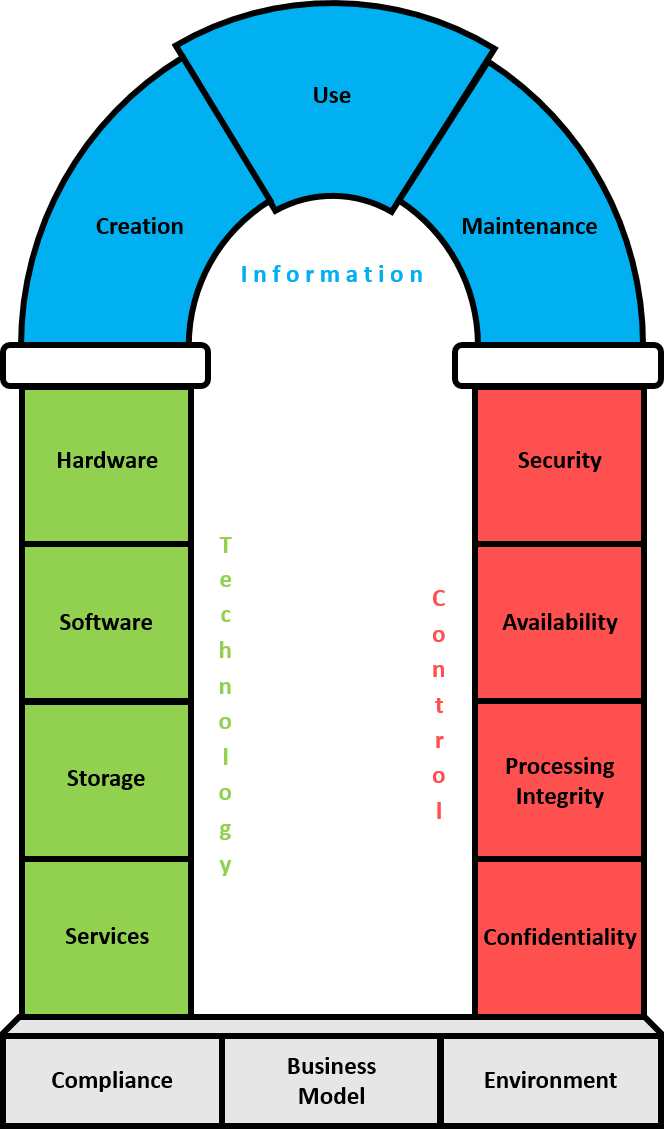
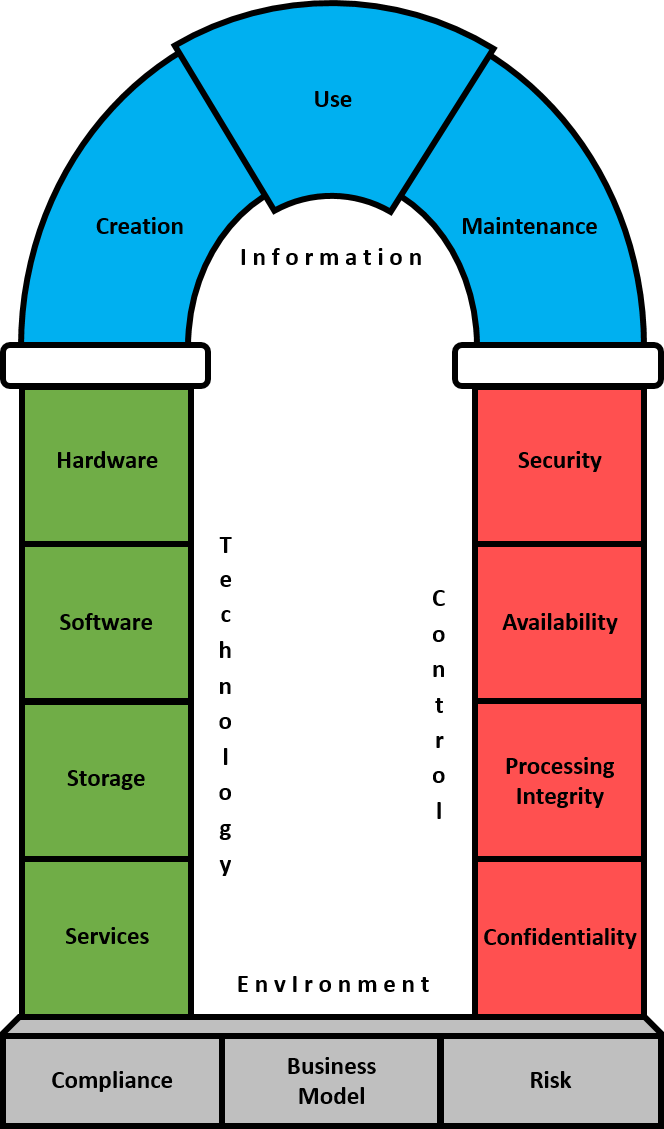
Revised the foundation of the arch.
Changed the arch image to reflect new version. Also made changes
to the Accounting Architecture lecture, in part, to match the new
version of the arch.

diff --git a/lectures/accounting-architecture.html b/lectures/accounting-architecture.html
@@ -49,27 +49,27 @@
 		</section>
 
 		<section>
-			<h3>The Information Era</h3>
-			<p>The surge in technological innovation may lead some to believe erroneously that we live in the Technology Era, but the goal of technological innovation is not to serve technology. In other words, technology is not an end to itself. It is a means to an end, specifically a means to the generation of more information. Technology is a mere, albeit important, vessel for the generation of additional information. Make no mistake, we live in the Information Era.</p>
-		</section>
-
-		<section>
 			<h3>Beyond Data Analytics</h3>
 			<p>Data collection and analytics may be highly demanded skills, but information custodianship involves more than these. Custodianship begins with <u><em>systems design</em></u>, which involves the identification of the roles the information system should play, the data the system should collect, and the information or reports the system should generate, as well as the selection of technologies that build an information system to meet specifications.</p>
 		</section>
 
 		<section>
+			<h3>The Information Era</h3>
+			<p>The surge in technological innovation may lead some to believe erroneously that we live in the Technology Era, but the goal of technological innovation is not to serve technology. In other words, technology is not an end to itself. It is a means to an end, specifically a means to the generation of more information. Technology is a mere, albeit important, vessel for the generation of additional information. Make no mistake, we live in the Information Era.</p>
+		</section>
+
+		<section>
 			<h3>All Types of Information?</h3>
-			<p>Business information in an information system extends beyond traditional accounting content. Although the historical belief may have been that accountants should only care about accounting&mdash;to quote The Simpsons: &ldquo;Hey, Surly only looks out for one guy... Surly!&rdquo;&mdash;with the extensive business knowledge accountants have by virtue of their understanding of how to measure economic activities, they should expand their role to act as a custodian of all business information.</p>
+			<p>Business information in an information system extends beyond traditional accounting content. Although the historical belief may have been that accountants should only care about accounting&mdash;to quote The Simpsons: &ldquo;Hey, Surly only looks out for one guy: Surly!&rdquo;&mdash;with the extensive business knowledge accountants have by virtue of their understanding of how to measure economic activities, they should expand their role to act as a custodian of all business information.</p>
 		</section>
 
 		<section>
 			<h3>Old Meets New</h3>
-			<p>Although the idea of systems design and general custodianship of business information is new to the accounting profession, the concept of supporting the information system is not. For years, one of the primary roles of accountants has been to audit IT systems to verify that existing systems meet control objectives to maintain data integrity and prevent unauthorized access. This has both positive and negative consequences. Because accountants have had a limited view of their role in the information system, they have been poorly equipped to serve as IT auditors. As accountants broaden their skills, not only will they be able to fill new and popular data analytics roles, rather they will also increase in their ability to perform the more traditional IT audit, and even financial audit, roles.</p>
+			<p>Although the idea of systems design and general custodianship of business information is new to the accounting profession, the concept of supporting the information system is not. For years, one of the primary roles of accountants has been to audit IT systems to verify that existing systems meet control objectives to maintain data integrity and prevent unauthorized access. This has both positive and negative consequences. Because accountants have had a limited view of their role in the information system, they have been poorly equipped to serve as IT auditors. As accountants broaden their skills, not only will they be able to fill new and popular data analytics roles, but they will also increase in their ability to perform the more traditional IT audit, and even financial audit, roles.</p>
 		</section>
 
 		<section>
-			<h3>Accounting Architecture - Teaching the Skills</h3>
+			<h3>Accounting Architecture</h3>
 			<div class="flex-row">
 				<div class="flex-item override"><img src="../images/Arch5Color.png" alt="AA Arch" style="max-width: 300px"/></div>
 				<div class="flex-item" style="max-width: 65%">
@@ -79,13 +79,13 @@
 		</section>
 
 		<section>
-			<h3>The Elephant in the Room</h3>
-			<p>The title of this course in the catalog is &ldquo;Accounting Systems&rdquo;. In prior semesters this has caused confusion regarding the nature of this course. This course is more appropriately, and more traditionally, called &ldquo;Accounting Information Systems&rdquo; because the purpose is to explain the creation of accounting information. Perhaps, a better title would be &ldquo;Accounting <em>and</em> Information Systems&rdquo; to highlight that the course teaches the principles of an information system as they apply to accounting.</p>
+			<h3>Why Architecture?</h3>
+			<p>Many disciplines have concepts of the structure, building blocks, and form of a system, and they call these &ldquo;architecture&rdquo; in the same sense that a physical structure has an architecture. Business architecture is the design of business models and activities to fulfill business strategies. Software architecture is the structure and design of computer software. IT/systems architecture is the design of computer systems. Accounting architecture relies heavily on systems architecture, and as such, could be called accounting systems architecture. However, this is too limiting a label. Accounting architecture is the structure of accounting information, as well as the structure of the information system necessary to capture, record, and communicate that information.</p>
 		</section>
 
 		<section>
 			<h3>Not IT Specialists</h3>
-			<p>The purpose of this course is not to encourage students to change their profession or to create accountants who can replace IT staff. Knowledge of accounting architecture creates accounting architects who can collaborate with IT staff to create and maintain information systems that will provide the best possible information for decision makers. The goal is to &ldquo;bridge the gap&rdquo; between business specialists and IT specialists. Some have called this practice &ldquo;business-led IT&rdquo; because business specialists lead systems design. I have coined the term &ldquo;accounting-led IT&rdquo; to emphasize the importance of accountants with their unique business knowledge collaborating with IT staff.</p>
+			<p>The purpose of this course is not to encourage students to change their profession or to create accountants who can replace IT staff. Knowledge of accounting architecture creates accountants, or rather accounting architects, who can collaborate with IT staff to create and maintain information systems that will provide the best possible information for decision makers. The goal is to &ldquo;bridge the gap&rdquo; between business specialists and IT specialists. Some have called this practice &ldquo;business-led IT&rdquo; because business specialists lead systems design. I prefer  &ldquo;accounting-led IT&rdquo; to emphasize the importance of accountants with their unique business knowledge collaborating with IT staff.</p>
 		</section>
 
 		<section>
@@ -100,36 +100,36 @@
 			<div class="flex-row">
 				<div class="flex-item override"><img src="../images/Arch5Color.png" alt="AA Arch" style="max-width: 300px"/></div>
 				<div class="flex-item" style="max-width: 65%">
-					<p>The arch of the accounting architecture has four sections: Foundation or Constraints, Information, Technology, and Control. The following slides introduce each of these sections, as well as the blocks that these sections comprise.</p>
+					<p>The arch of the accounting architecture has four sections: Environment, Information, Technology, and Control. The following slides introduce each of these sections, as well as the blocks that these sections comprise.</p>
 				</div>
 			</div>
 		</section>
 
 		<section>
-			<h3>Constraints</h3>
-			<p>Three forces determine the boundaries of a useful information system:
-			<ul>
+			<h3>Environment</h3>
+			<p>The environment is the collection of external and internal forces that affect the business entity and its accounting information. These environmental constructs determine the boundaries of a useful information system:
+			<ul style="display: inline-block">
 				<li><u><em>Compliance</em></u></li>
 				<li><u><em>Business Model</em></u></li>
-				<li><u><em>Environment</em></u></li>
+				<li><u><em>Risk</em></u></li>
 			</ul>
 			<p>Think of these as the foundation of a house. The foundation is not sufficient to determine the <em>best</em> building schematics, but it can exclude many incompatible blueprints.</p>
 		</section>
 
 		<section>
 			<h3>Compliance</h3>
-			<p>The primary focus of the accounting curriculum is accounting rules and regulations. Financial accounting, audit, and tax are rules-based, and any useful information system must generate information necessary to comply with these rules (e.g., financial statements, tax forms, etc.).</p>
+			<p>In the first place, <u><em>compliance</em></u> deals with the entity's regulatory environment. The main focus of accounting courses is accounting rules and regulations. Financial accounting, audit, and tax are rules-based, and any useful information system must generate information necessary to comply with these rules (e.g., financial statements, tax forms, etc.). Federal, state, and local laws are also part of the regulatory environment.</p>
 			<p>Compliance also addresses contractual relationships with lenders, suppliers, and customers. Although these are not regulatory bodies, they may demand access to certain information or a certain level of security.</p>
 		</section>
 
 		<section>
 			<h3>Business Model</h3>
-			<p>Entrepreneurs and operations specialists generate business ideas and the model to execute those ideas. Accountants and information systems specialists report on the chosen model. As the information system collects data and reports on the existing business model, accountants can provide insights into potential modifications of the current model, as well as entirely new strategies. (Big Data analytics may be particularly useful for divining new strategies.)</p>
+			<p>The <u><em>business model</em></u> is the form the business entity takes to achieve its business strategies. This can include the chosen industry to operate in, ownership structure, financing method, investments, etc. The form of the business model is under the purview of business architects. Accountants and information systems specialists report on the chosen business model. As the information system collects data and reports on the existing business model, accountants can provide insights into potential modifications of the current model, as well as entirely new strategies. (Big Data analytics has been particularly useful for divining new business strategies.)</p>
 		</section>
 
 		<section>
-			<h3>Environment</h3>
-			<p>The external and internal environment set the boundaries for what an information system and an organization, in general, can and should do. The external environment comprises economic and market forces, as well as external technological constraints, and the internal environment comprises the core competencies, management ability, corporate culture, financial resources, and internal technological constraints of the firm. External technological constraints are the boundaries of IT capabilities. Internal technological constraints are the abilities within an organization to develop unique information system components (e.g., write software) that will adapt the information system to the organization's unique business model and information needs.</p>
+			<h3>Risk</h3>
+			<p>Any business environment contains both <u><em>internal and external risks</em></u>. External risks include general economic conditions, industry competition and developments, availability of financing and financing requirements, litigation, technological developments, and digital threats (e.g., hacking). Internal risks include business expansion, management ability and core competencies, corporate governance and culture, changes in key personnel, resource capacity, fraud, data loss and error, and technological feasibility of business and IT objectives. These risks influence the types of data that the information system should gather and process, but more importantly, also the set of controls the business entity should implement to prevent these risks from threatening profitability.</p>
 		</section>
 
 		<section>
